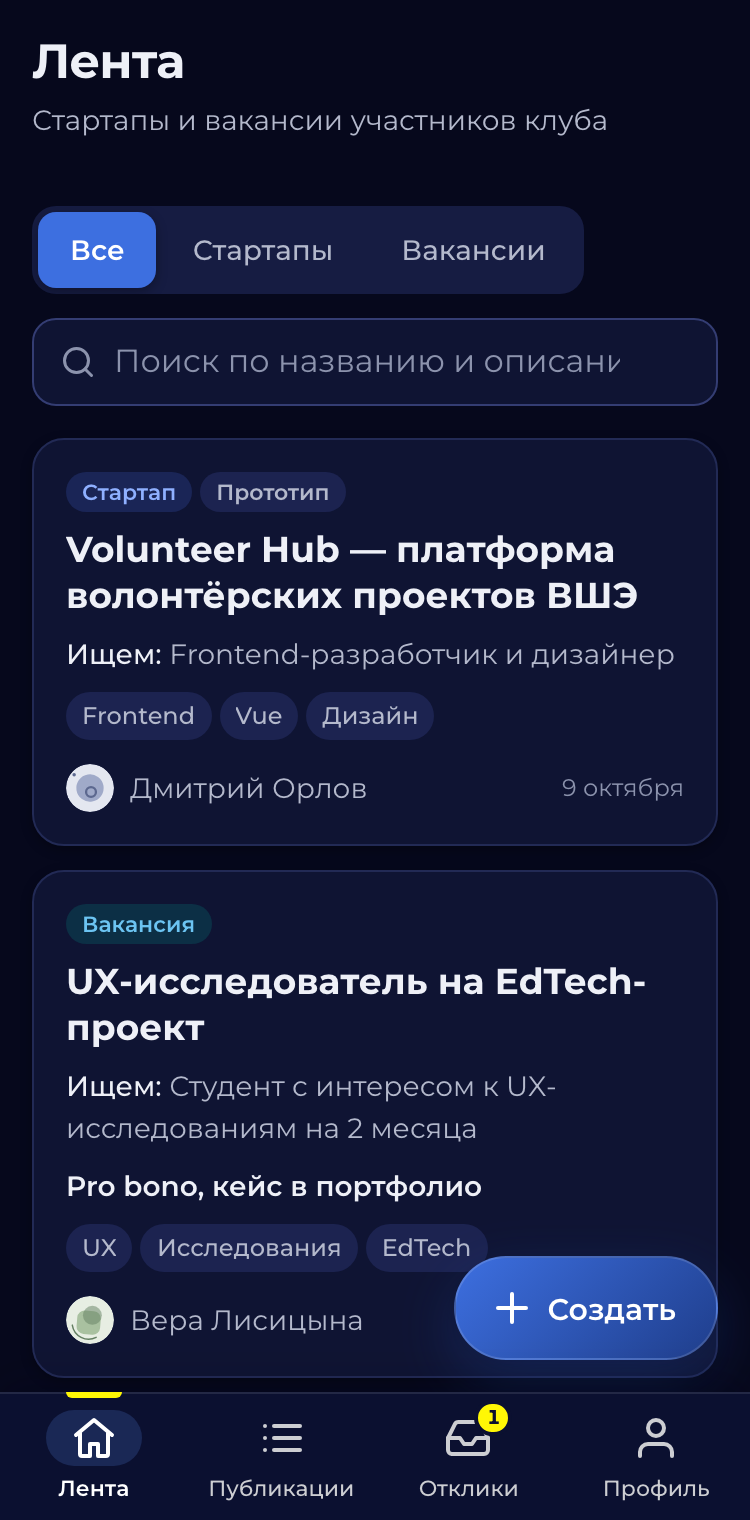
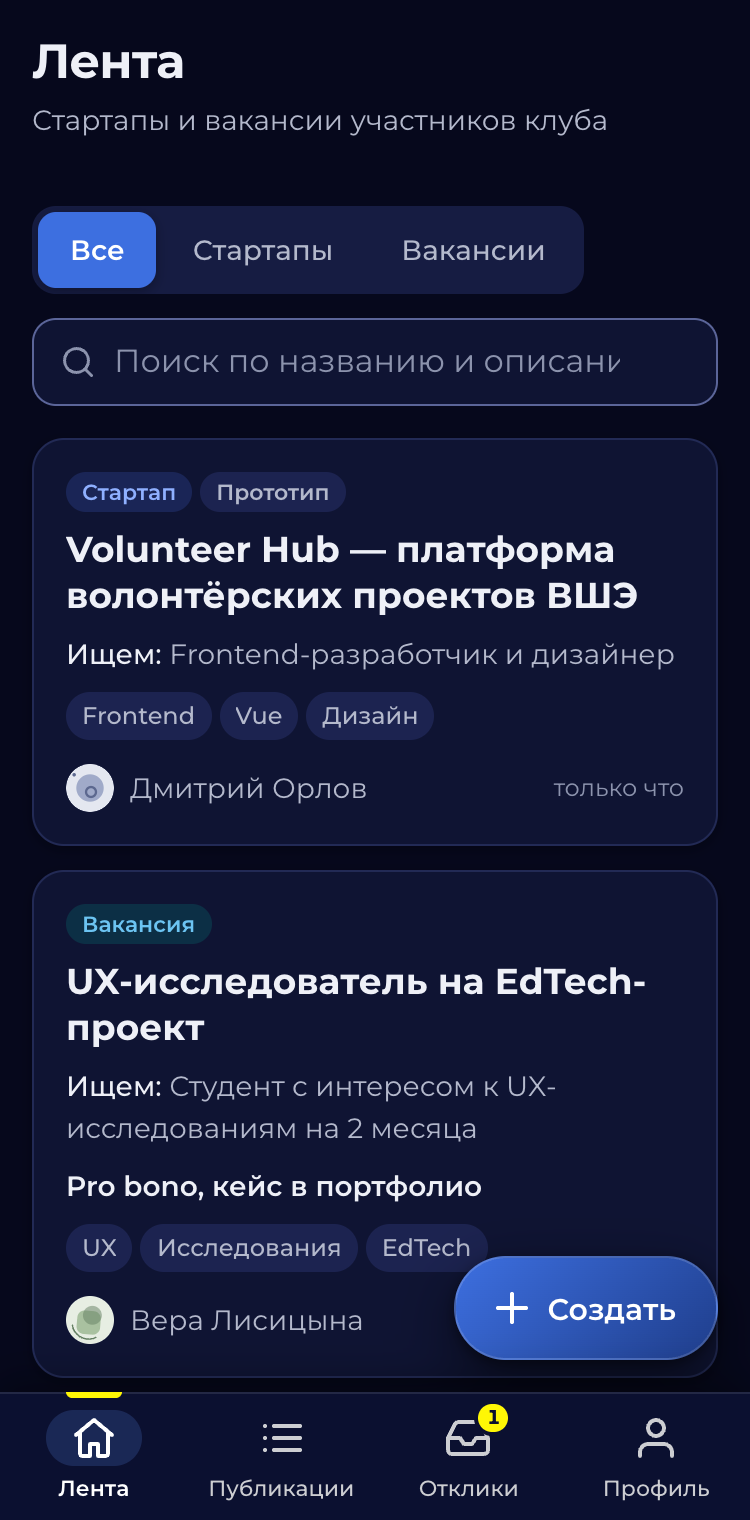
docs(F6): screenshots from the live backend, e2e in front README

Changed region(s): [[0.5827, 0.8658, 0.9813, 0.9276], [0.736, 0.4947, 0.8893, 0.5257]]

diff --git a/front/README.md b/front/README.md
@@ -16,7 +16,9 @@ NUXT_MOCK_API=true npm run dev   # без бэкенда: in-memory mock API с 
 (на странице входа есть кнопки «Войти как …»).
 
 Проверки: `npm run lint` (eslint + stylelint + tsc), `npm run test` (vitest),
-`npm run build`, `docker build .`.
+`npm run e2e` (Playwright: основной сценарий SPEC §1, состояния, axe — против mock API на
+prod-сборке, порт 13100, системный Chrome; в `npm run test` не входит), `npm run build`,
+`docker build .`.
 
 ## Переменные окружения
 
@@ -133,7 +135,10 @@ tests/                    — vitest
   (`sm`/`md`/`lg` → flex-колонка с отступами).
 
 Скриншоты (375 и 1280 px, светлая и тёмная тема): `docs/screenshots/`, «до» F8 —
-`docs/screenshots/before/`.
+`docs/screenshots/before/`. Сняты на живом бэкенде со свежим сидом, пользователь `anna`:
+`login`, `feed`, `listing` (чужая), `listing-owner`, `listing-applications`, `listing-new`,
+`me`, `me-listings`, `me-applications` (полученные), `user`, `not-found`; тёмная тема —
+`login-dark`, `feed-dark`, `listing-dark`, `me-applications-dark`.
 
 ## Соглашения для экранов (F1–F5)
 
